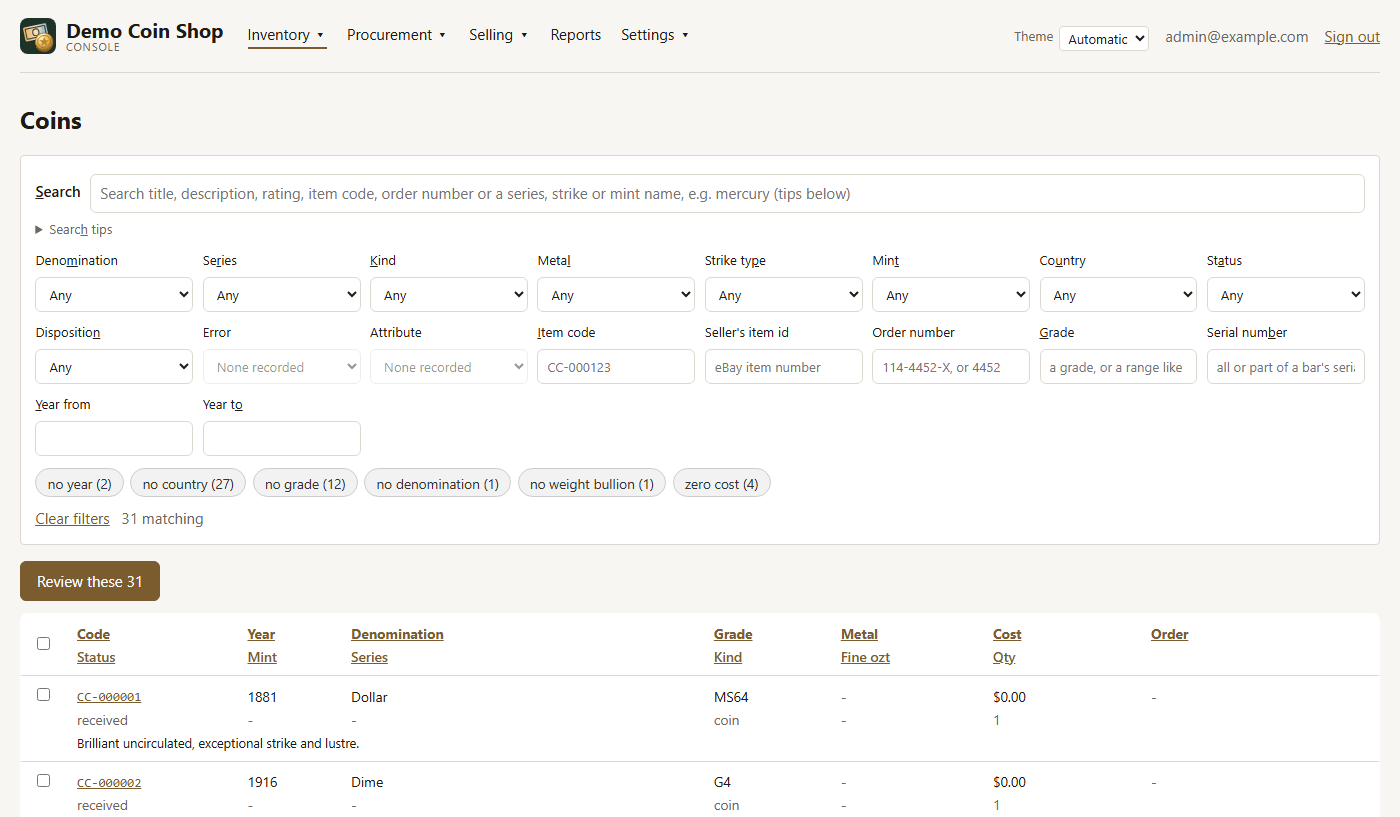
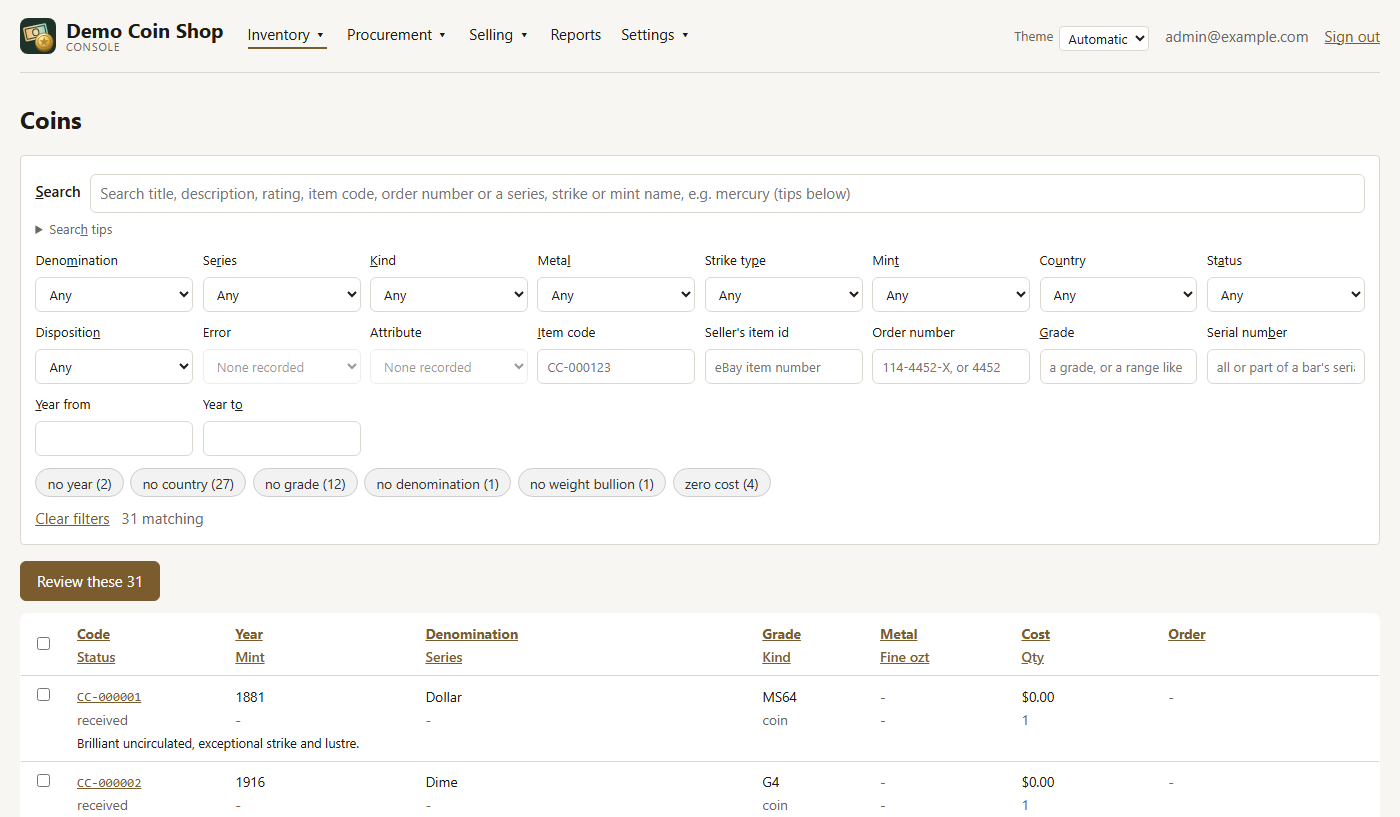
The Mint column names the mint
On Coins and on a purchase's item list the Mint column showed the mark
struck on the coin (P, W), and nothing for a mint that strikes none -- a
Valcambi bar read as having no mint. It now shows the mint by name
(Philadelphia, West Point, Valcambi), owner's choice, and sorts by it.
The Mint help says the same, and the screen guide's coin lists are
retaken.

diff --git a/frontend/src/management/pages/PurchaseItems.test.jsx b/frontend/src/management/pages/PurchaseItems.test.jsx
@@ -16,6 +16,7 @@ const COIN_ROW = {
   item_code: 'CC-000501',
   status: 'received',
   year_start: 1923,
+  mint: 'Philadelphia',
   mint_mark: 'P',
   denomination_label: 'Dollar',
   series_label: 'Peace Dollar',
@@ -72,7 +73,14 @@ describe('PurchaseItems', () => {
       <PurchaseItems purchase={purchaseOf([line(501, 'coin')])} onOpen={vi.fn()} />,
     )
     const table = await screen.findByRole('table')
-    for (const text of ['1923', 'P', 'Dollar', 'Peace Dollar', 'MS62', 'Silver']) {
+    for (const text of [
+      '1923',
+      'Philadelphia',
+      'Dollar',
+      'Peace Dollar',
+      'MS62',
+      'Silver',
+    ]) {
       expect(within(table).getAllByText(text).length).toBeGreaterThan(0)
     }
     expect(

diff --git a/frontend/src/management/fieldHelp.js b/frontend/src/management/fieldHelp.js
@@ -497,9 +497,10 @@ export const FIELD_HELP = {
   mint: {
     title: 'Mint',
     text:
-      'The mint mark on the coin: P Philadelphia, D Denver, S San Francisco, ' +
-      'O New Orleans, CC Carson City, W West Point. Most older Philadelphia ' +
-      'coins carry no mark.',
+      'The mint that struck the piece, listed by name. A government mint ' +
+      'puts its mark on the coin -- P Philadelphia, D Denver, S San Francisco, ' +
+      'O New Orleans, CC Carson City, W West Point -- though most older ' +
+      'Philadelphia coins carry none; a refiner such as Valcambi strikes no mark.',
   },
   denomination: {
     title: 'Denomination',

diff --git a/frontend/src/management/pages/inventory/specs.js b/frontend/src/management/pages/inventory/specs.js
@@ -77,7 +77,9 @@ export const COIN_VIEW = {
     ],
     [
       ['Year', 'year_start'],
-      ['Mint', 'mint_mark'],
+      // By name, not mark (owner): a refiner such as Valcambi strikes no
+      // mark, and P or W reads as a code. The description keeps 1881-S.
+      ['Mint', 'mint'],
     ],
     [
       ['Denomination', 'denomination_label'],

diff --git a/backend/tests/test_inventory_search.py b/backend/tests/test_inventory_search.py
@@ -24,6 +24,7 @@ from app.models import (
     ItemImage,
     ItemKind,
     ItemStatus,
+    Mint,
     ProvenanceSource,
     PurchaseOrder,
     SealColor,
@@ -144,6 +145,35 @@ def _order(
     return build_purchase_order(
         db, vendor_name=vendor_name, order_number=number, ordered_on=ordered_on
     )
+
+
+def test_a_coin_row_names_its_mint(
+    client: TestClient, admin_headers: dict[str, str], db: Session
+) -> None:
+    """The Mint column reads `mint`: the name, for a marked mint or a refiner."""
+    refiner = Mint(
+        code="valcambi_test", label="Valcambi", mark="", source=ProvenanceSource.manual
+    )
+    db.add(refiner)
+    db.flush()
+    bar = coin(db)
+    struck = coin(db)
+    bare = coin(db)
+    db.add_all(
+        [
+            CoinDetail(inventory_item_id=bar.id, mint_id=refiner.id),
+            CoinDetail(inventory_item_id=struck.id, mint_id=code_id(db, Mint, "W")),
+        ]
+    )
+    db.commit()
+
+    body = search(client, "coins", admin_headers, sort="mint").json()
+    rows = {r["id"]: r for r in body["rows"]}
+    assert rows[bar.id]["mint"] == "Valcambi"
+    assert rows[struck.id]["mint"] == "West Point"
+    assert rows[struck.id]["mint_mark"] == "W"
+    assert rows[bare.id]["mint"] is None
+    assert "mint" in body["sortable"]
 
 
 def test_a_coin_row_carries_its_purchase_order(

diff --git a/backend/app/inventory_search.py b/backend/app/inventory_search.py
@@ -489,6 +489,8 @@ COIN_VIEW = ViewSpec(
     sortable=(
         *_SHARED_SORT,
         "fine_weight_ozt",
+        # The Mint column's: the mint by name (Philadelphia, Valcambi).
+        "mint",
         "mint_mark",
         "item_kind",
         "metal",

diff --git a/docs/ui-guide.md b/docs/ui-guide.md
@@ -83,7 +83,7 @@ The search and filters, as the help band explains each one:
 | **Kind** | Coins | What the item is: a coin, a banknote, bullion, a set, and so on. It decides which fields apply -- a note has no metal or strike type, a coin no serial number. |
 | **Metal** | Coins | What it is struck in: silver, gold, copper, copper-nickel clad, and so on. With the fineness and weight, it decides the melt value. |
 | **Strike type** | Coins | How the coin was made: a business strike, made for circulation and graded Mint State (MS), or a proof, struck with specially polished dies for collectors and graded PR. It decides whether a 65 reads MS65 or PR65. |
-| **Mint** | Coins | The mint mark on the coin: P Philadelphia, D Denver, S San Francisco, O New Orleans, CC Carson City, W West Point. Most older Philadelphia coins carry no mark. |
+| **Mint** | Coins | The mint that struck the piece, listed by name. A government mint puts its mark on the coin -- P Philadelphia, D Denver, S San Francisco, O New Orleans, CC Carson City, W West Point -- though most older Philadelphia coins carry none; a refiner such as Valcambi strikes no mark. |
 | **Country** | Coins | The country that issued it. |
 | **Note type** | Currency | The kind of note, printed across the top of the face: Federal Reserve Note, Silver Certificate, United States Note, and so on. |
 | **Seal color** | Currency | The color of the Treasury seal, right of center on the face: green on a Federal Reserve Note, blue on a Silver Certificate, red on a United States Note; brown, gold and yellow on some older and wartime issues. |
